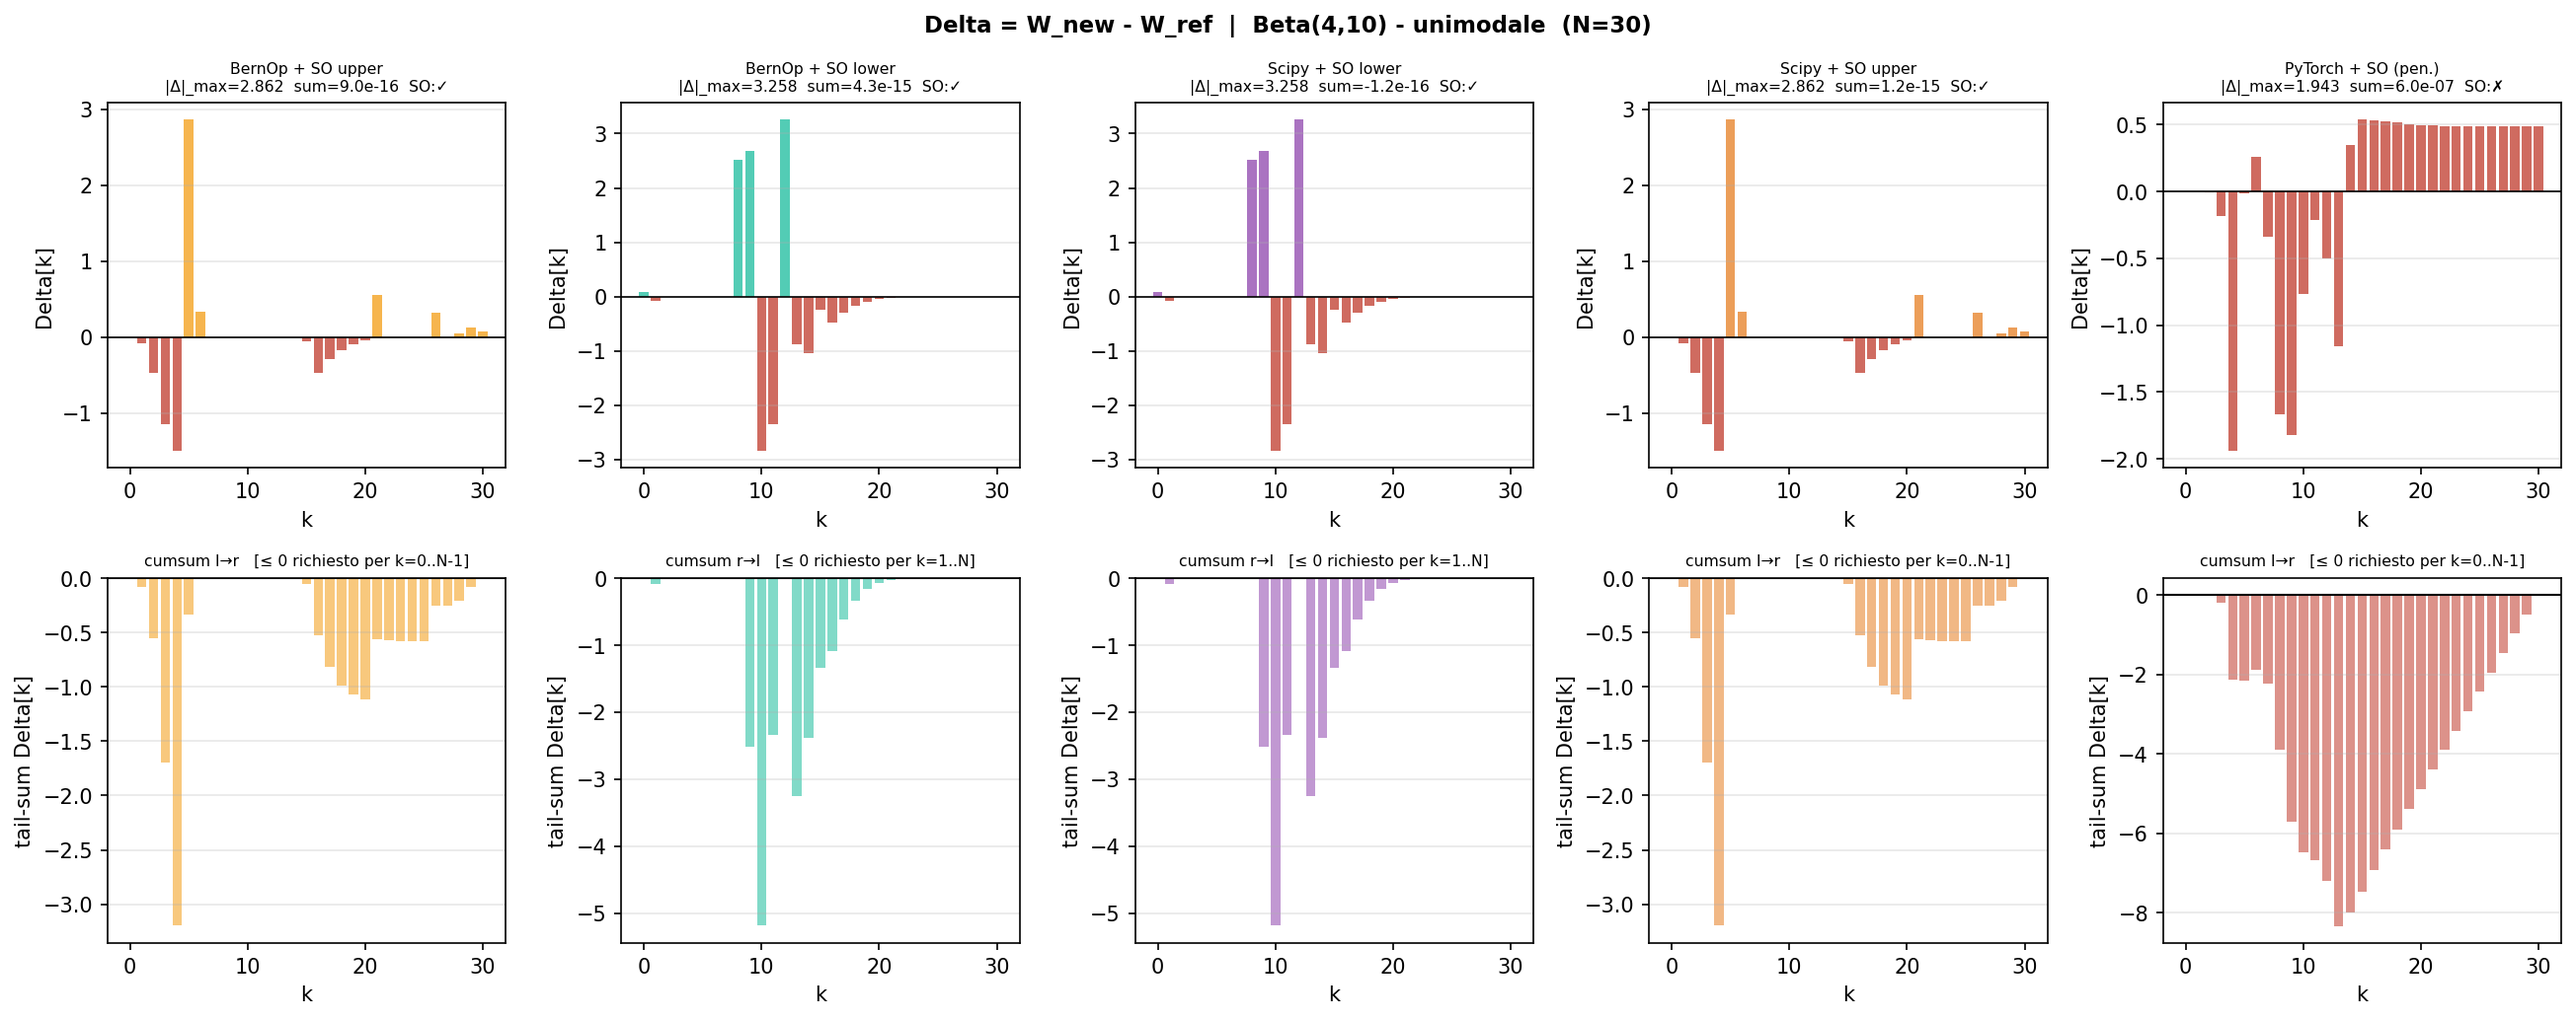
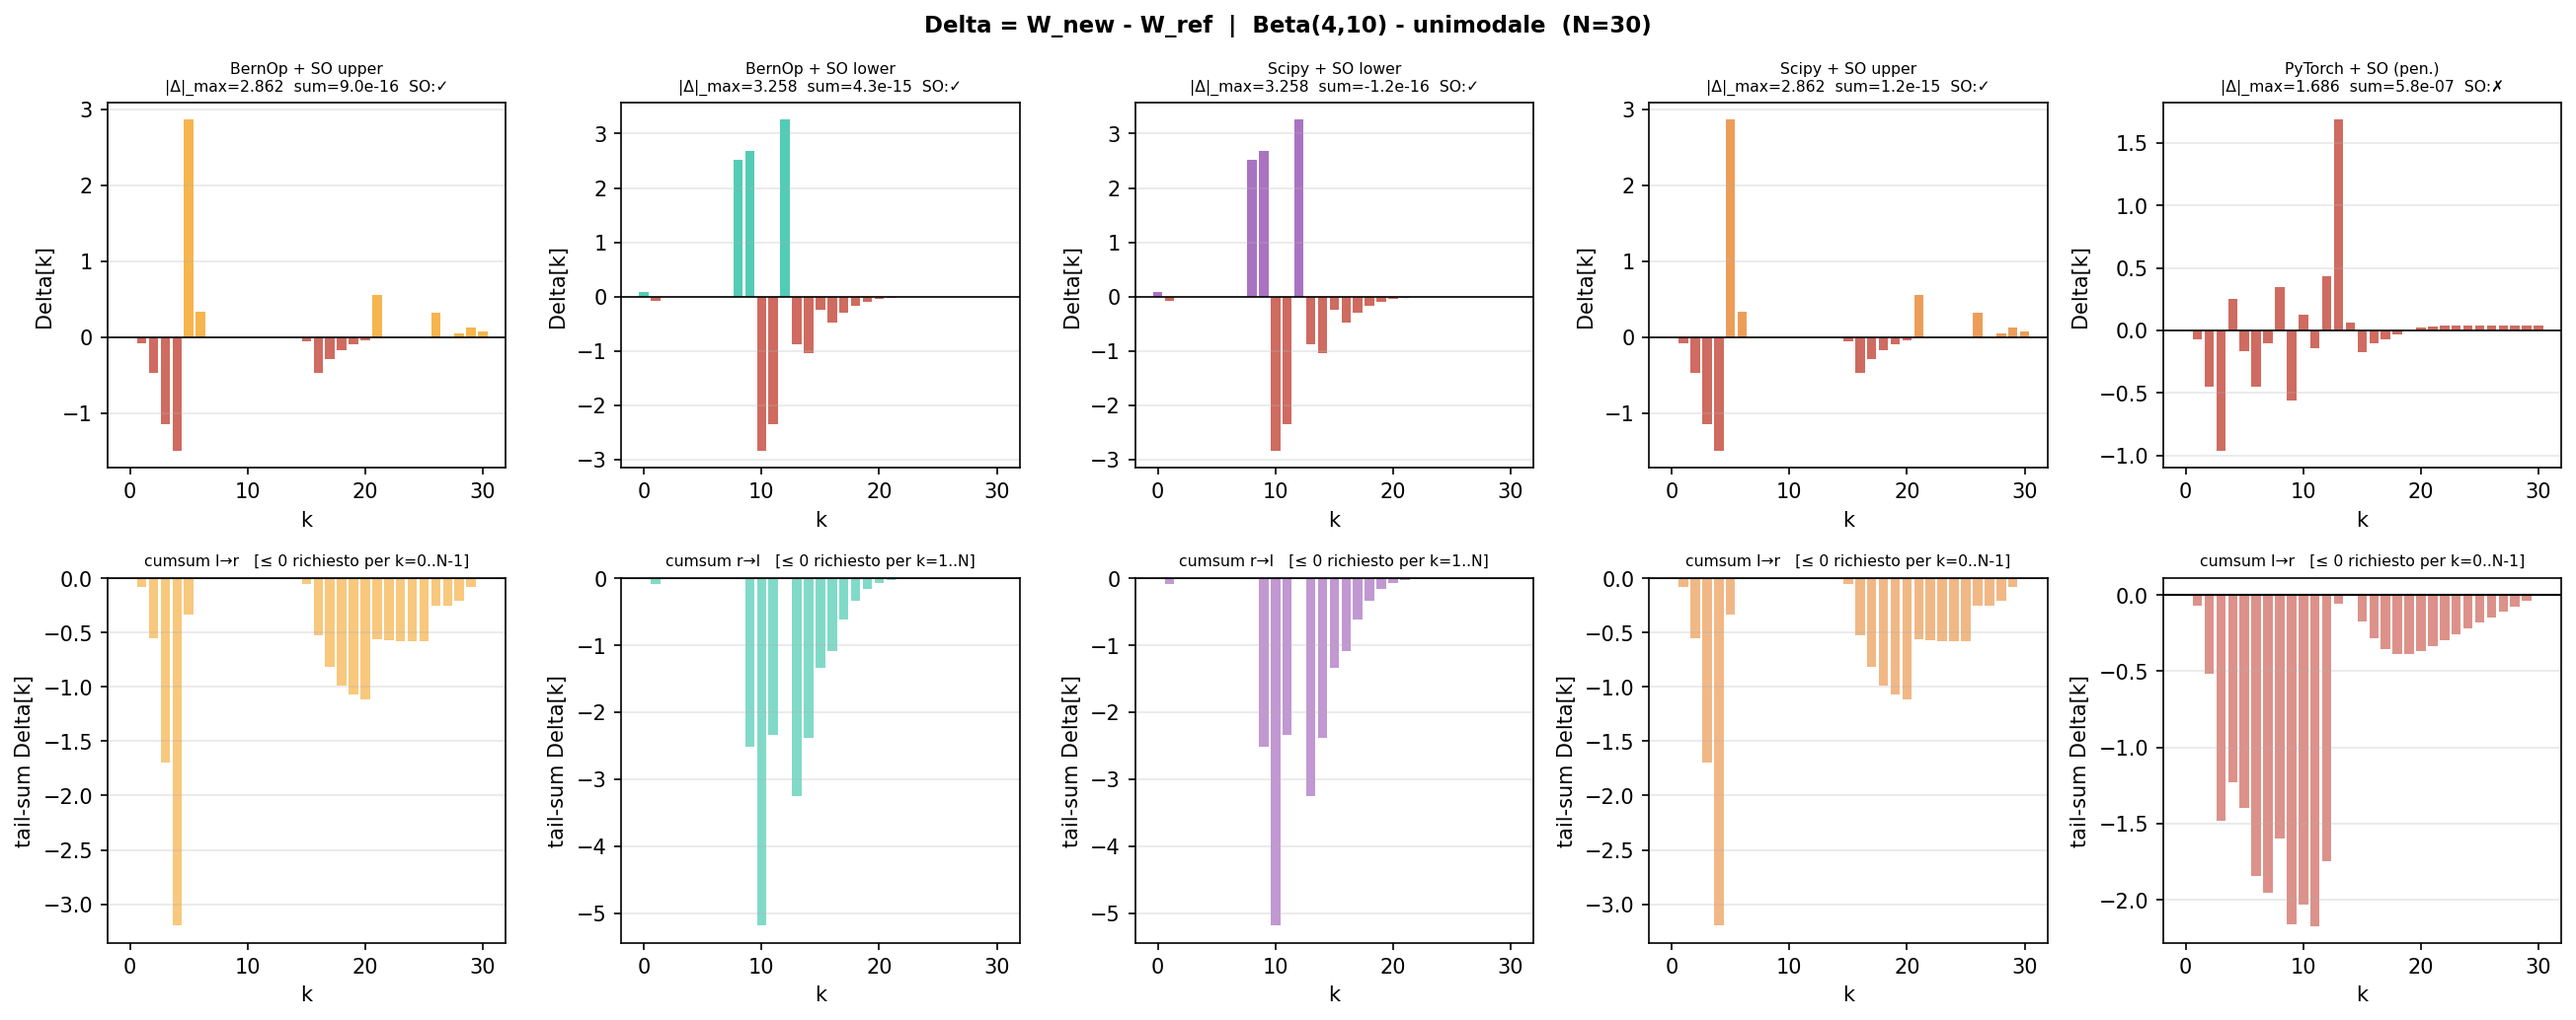
Small changes

diff --git a/bernstein/experiments.py b/bernstein/experiments.py
@@ -158,7 +158,7 @@ def run_experiment(name: str, N: int, x: np.ndarray, f: np.ndarray,
     so_up = check_order(W_up, W_init, 'upper')
     m = _store('scipy_upper', W_up, t, Delta=D_up)
     results['scipy_upper']['so'] = so_up
-    results['scipy_upper']['W_ref'] = W_scipy.copy()
+    results['scipy_upper']['W_ref'] = W_init.copy()
     sat = '✓' if so_up['satisfied'] else '✗'
     print(f"\n  Scipy + SO upper        MSE={m:.7f}   t={t:8.2f} ms  SO:{sat}")
     _print_w_delta('scipy_upper', W_up, D_up)
@@ -173,7 +173,7 @@ def run_experiment(name: str, N: int, x: np.ndarray, f: np.ndarray,
     so_lo = check_order(W_lo, W_init, 'lower')
     m = _store('scipy_lower', W_lo, t, Delta=D_lo)
     results['scipy_lower']['so'] = so_lo
-    results['scipy_lower']['W_ref'] = W_scipy.copy()
+    results['scipy_lower']['W_ref'] = W_init.copy()
     sat = '✓' if so_lo['satisfied'] else '✗'
     print(f"\n  Scipy + SO lower        MSE={m:.7f}   t={t:8.2f} ms  SO:{sat}")
     _print_w_delta('scipy_lower', W_lo, D_lo)
@@ -188,19 +188,19 @@ def run_experiment(name: str, N: int, x: np.ndarray, f: np.ndarray,
     print(f"\n  PyTorch                 MSE={m:.7f}   t={t_pytorch:8.2f} ms")
     _print_w_delta('pytorch', W_pt)
 
-    # PyTorch + SO upper (W_ref = W_pytorch)
+    # PyTorch + SO upper (W_ref = W_bernstein)
     # Aggiunge ordinamento stocastico, per farlo usa delle penalità
     # quando l'approssimazione non rispetta l'ordinamento.
     # In questo modo il gradient descent riesce ad auto bilanciarsi
     # e trovare i pesi per far funzionare tutto
     t0 = time.perf_counter()
-    W_pt_up, D_pt_up = solve_pytorch_ordered(N, x, f, W_pt.copy(),
+    W_pt_up, D_pt_up = solve_pytorch_ordered(N, x, f, W_init.copy(),
                                              direction='upper')
-    t = (time.perf_counter() - t0) * 1e3 + t_pytorch
-    so = check_order(W_pt_up, W_pt, 'upper')
+    t = (time.perf_counter() - t0) * 1e3
+    so = check_order(W_pt_up, W_init, 'upper')
     m = _store('pytorch_upper', W_pt_up, t, Delta=D_pt_up)
     results['pytorch_upper']['so'] = so
-    results['pytorch_upper']['W_ref'] = W_pt.copy()
+    results['pytorch_upper']['W_ref'] = W_init.copy()
     sat = '✓' if so['satisfied'] else '✗'
     print(f"\n  PyTorch + SO (pen.)     MSE={m:.7f}   t={t:8.2f} ms  SO:{sat}")
     _print_w_delta('pytorch_upper', W_pt_up, D_pt_up)

diff --git a/bernstein/methods.py b/bernstein/methods.py
@@ -211,7 +211,12 @@ def solve_pytorch_ordered(N: int, x: np.ndarray, f: np.ndarray,
     f_t = torch.tensor(f, dtype=torch.float32)
     Wr_t = torch.tensor(W_ref, dtype=torch.float32)
 
-    W_raw = nn.Parameter(torch.zeros(N + 1))
+    # W_init: Pytorch unconstrained solution
+    W_init = solve_pytorch(N, x, f)
+
+    # softmax parametrization coerente con W_init
+    w0 = torch.tensor(W_init / (N + 1), dtype=torch.float32)
+    W_raw = nn.Parameter(torch.log(w0))
     opt = optim.Adam([W_raw], lr=lr)
 
     for _ in range(epochs):

diff --git a/README.md b/README.md
@@ -80,13 +80,34 @@ Equivale a: $\text{cumsum}(W_{\text{new}})[h] \ge \text{cumsum}(W_{\text{ref}})[
 
 ### A quale riferimento si applica il SO?
 
-Il sistema implementa SO rispetto a **tre diversi punti di riferimento**, a seconda del metodo:
+Il sistema implementa SO rispetto a **un unico punto di riferimento** ($W_{\text{ref}}$), ma varia ($W_{\text{init}}$):
 
-| Metodo | $W_{\text{ref}}$ | Significato |
-|---|---|---|
-| `bernstein_op_upper/lower` | $W_{\text{bernsteinOp}}$ | SO rispetto all'operatore di Bernstein classico |
-| `scipy_upper/lower` | $W_{\text{scipy}}$ | SO rispetto all'ottimo non vincolato (MSE minimo) |
-| `pytorch_upper` | $W_{\text{pytorch}}$ | SO rispetto all'ottimo di pytorch, con vincolo soft (penalità) |
+| Metodo | $W_{\text{init}}$ |$W_{\text{ref}}$ | Significato di $W_{\text{ref}}$ |
+|---|---|---|---|
+| `bernstein_op_upper/lower` | $W_{\text{bernsteinOp}}$ |$W_{\text{bernsteinOp}}$ | SO rispetto all'operatore di Bernstein classico |
+| `scipy_upper/lower` | $W_{\text{scipy}}$ | $W_{\text{bernsteinOp}}$ | SO rispetto all'operatore di Bernstein classico |
+| `pytorch_upper` | $W_{\text{pytorch}}$ | $W_{\text{bernsteinOp}}$ | SO rispetto all'operatore di Bernstein classico |
+
+
+#### La Scelta dei Pesi Iniziali e di Riferimento
+
+Nel contesto dell'ottimizzazione vincolata, i parametri di inizializzazione e di riferimento svolgono ruoli matematici e operativi profondamente diversi:
+
+- **`W_init`**: rappresenta il punto di partenza dell'algoritmo nello spazio delle soluzioni. È fondamentale per garantire stabilità numerica e una convergenza rapida.
+- **`W_ref`**: costituisce l'ancora matematica del vincolo, ovvero la distribuzione di probabilità di base rispetto alla quale viene calcolato e imposto l'ordinamento stocastico (lo spostamento della funzione di ripartizione).
+
+La selezione di questi parametri varia a seconda del solutore utilizzato, seguendo specifiche logiche di ottimizzazione:
+
+- **Bernstein Operator (`bernstein_op_upper/lower`)**
+  - **`W_init` e `W_ref` coincidono (`W_bernsteinOp`)**: essendo l'operatore di Bernstein classico una formula analitica chiusa e non un processo iterativo, agisce come punto di partenza di se stesso. Il vincolo di ordinamento stocastico viene calcolato applicando la perturbazione direttamente sull'approssimazione teorica di base.
+
+- **Solutore SciPy SLSQP (`scipy_upper/lower`)**
+  - **Inizializzazione (`W_init = W_scipy`)**: l'algoritmo SLSQP parte dai pesi ottimali già calcolati nel caso non vincolato. È una scelta strategica di efficienza: partendo da una curva che garantisce già il minimo Errore Quadratico Medio (MSE), l'ottimizzatore deve unicamente applicare la minima deformazione necessaria per rientrare nel recinto del vincolo SO.
+  - **Riferimento (`W_ref = W_bernsteinOp`)**: l'ordinamento stocastico viene calcolato e imposto rispetto ai pesi analitici dell'operatore di Bernstein. Questa è una scelta di robustezza teorica: mentre l'ottimizzazione pura di SciPy può introdurre lievi artefatti numerici o overfitting per abbattere l'MSE, l'operatore di Bernstein rappresenta il campionamento naturale e la vera forma probabilistica della funzione bersaglio. Usarlo come riferimento garantisce che lo spostamento della massa (dominanza stocastica) avvenga rispetto a una base solida, liscia e matematicamente garantita.
+
+- **Solutore PyTorch Adam (`pytorch_upper/lower`)**
+  - **Inizializzazione (`W_init = W_pytorch`)**: Si adotta una strategia di partenza a caldo (*warm start*). Fornendo all'ottimizzatore Adam i pesi che hanno già minimizzato l'MSE nel caso non vincolato, la rete non deve sprecare epoche per ricercare la forma base della curva. L'algoritmo parte da una posizione di eccellenza per quanto riguarda l'errore e può concentrarsi fin dalla prima iterazione esclusivamente sull'adattamento necessario per soddisfare il vincolo.
+  - **Riferimento (`W_ref = W_bernstein`)**: Il vincolo (implementato come *soft penalty* differenziabile) viene valutato e calcolato rispetto all'operatore analitico di Bernstein. Questa è una scelta mirata alla stabilità e al rigore teorico: l'ottimizzazione pura di PyTorch, a causa dell'architettura non lineare introdotta dalla funzione Softmax, può generare distribuzioni di pesi interne caotiche o rumorose. Ancorare la penalità all'operatore di Bernstein garantisce che lo spostamento della massa (ordinamento stocastico) venga misurato e forzato rispetto a una curva base liscia, matematicamente pura e priva degli artefatti numerici tipici dell'addestramento neurale.
 
 ---
 
@@ -115,7 +136,7 @@ I vincoli sono gestiti **esattamente** (non come penalità):
 
 **Versione non vincolata** (`scipy`): trova l'ottimo globale del problema convesso. $\Delta = 0$ per costruzione ($W_{\text{ref}} = W_{\text{init}}$ = warm-start).
 
-**Versione SO** (`scipy_upper/lower`): $W_{\text{ref}} = W_{\text{scipy}}$ (l'ottimo non vincolato). I vincoli $\text{cumsum}(\Delta) \le 0$ / $\ge 0$ rimpiccioliscono il feasible set ma mantengono la convessità del problema. SLSQP garantisce l'ottimo locale nel feasible set SO che per questo problema è globale.
+**Versione SO** (`scipy_upper/lower`): $W_{\text{ref}} = W_{\text{bernsteinOp}}$: adotta una strategia ibrida per massimizzare sia l'efficienza che il rigore teorico. L'algoritmo viene inizializzato sull'ottimo non vincolato ($W_{\text{init}} = W_{\text{scipy}}$) sfruttando un *warm-start* per abbattere i tempi di convergenza. Tuttavia, il vincolo di ordinamento stocastico viene calcolato e imposto rispetto all'operatore analitico ($W_{\text{ref}} = W_{\text{bernsteinOp}}$). Questo garantisce che la traslazione della massa probabilistica avvenga rispetto alla distribuzione vera, liscia e naturale del fenomeno, impedendo all'algoritmo di assecondare eventuali artefatti numerici (overfitting) preesistenti nell'ottimo di SciPy.
 
 **Versione SO da BernOp** (`bernstein_op_upper/lower`): $W_{\text{ref}} = W_{\text{bernsteinOp}}$. Il vincolo SO è ora rispetto al punto di partenza dell'operatore classico, non rispetto all'ottimo. Produce un BP che è vincolato a stare stocasticamente sopra/sotto l'operatore di Bernstein.
 
@@ -137,7 +158,7 @@ Aggiunge alla loss un termine per le violazioni del vincolo SO:
 
 $$\mathcal{L}(W) = \text{MSE}(W) + \lambda \sum_h \max(0, \text{cumsum}(\Delta)[h] \cdot \text{segno})^2$$
 
-dove $\text{segno} = +1$ per upper (viola se $\text{cumsum}(\Delta) > 0$) e $\text{segno} = -1$ per lower. $W_{\text{ref}} = W_{\text{pytorch}}$.
+dove $\text{segno} = +1$ per upper (viola se $\text{cumsum}(\Delta) > 0$) e $\text{segno} = -1$ per lower. $W_{\text{ref}} = W_{\text{bernsteinOp}}$.
 
 **Differenza fondamentale rispetto a Scipy+SO**: la penalità è un'approssimazione *soft*, nessun valore di $\lambda$ garantisce il vincolo esatto. Scipy SLSQP impone invece un vincolo *hard*. Nei nostri esperimenti, PyTorch+penalità può ancora violare il vincolo SO (SO:✗) anche con $\lambda=200$, mentre Scipy+SO è sempre ✓.
 
@@ -203,9 +224,9 @@ Questo è un punto concettuale importante. `bernstein_op_upper` e `bernstein_op_
 | `bernstein_op` | Operatore di Bernstein | nessuno (formula chiusa) |
 | `bernstein_op_upper/lower` | Operatore di Bernstein | SLSQP vincolato |
 | `scipy` | - | SLSQP non vincolato |
-| `scipy_upper/lower` | SLSQP non vincolato | SLSQP vincolato |
+| `scipy_upper/lower` | Operatore di Bernstein | SLSQP vincolato |
 | `pytorch` | - | Gradient descent (Adam) |
-| `pytorch_upper` | Gradient descent (Adam) | Gradient descent con penalità |
+| `pytorch_upper` | Operatore di Bernstein | Gradient descent con penalità |
 
 In pratica `bernstein_op_upper` risponde alla domanda: *"Qual è il BP che minimizza l'MSE con il vincolo di essere stocasticamente maggiore dell'operatore di Bernstein?"*. Per questo motivo hanno quasi sempre MSE **inferiore** a `bernstein_op`: SLSQP ottimizza attivamente a partire da quel punto.
 
